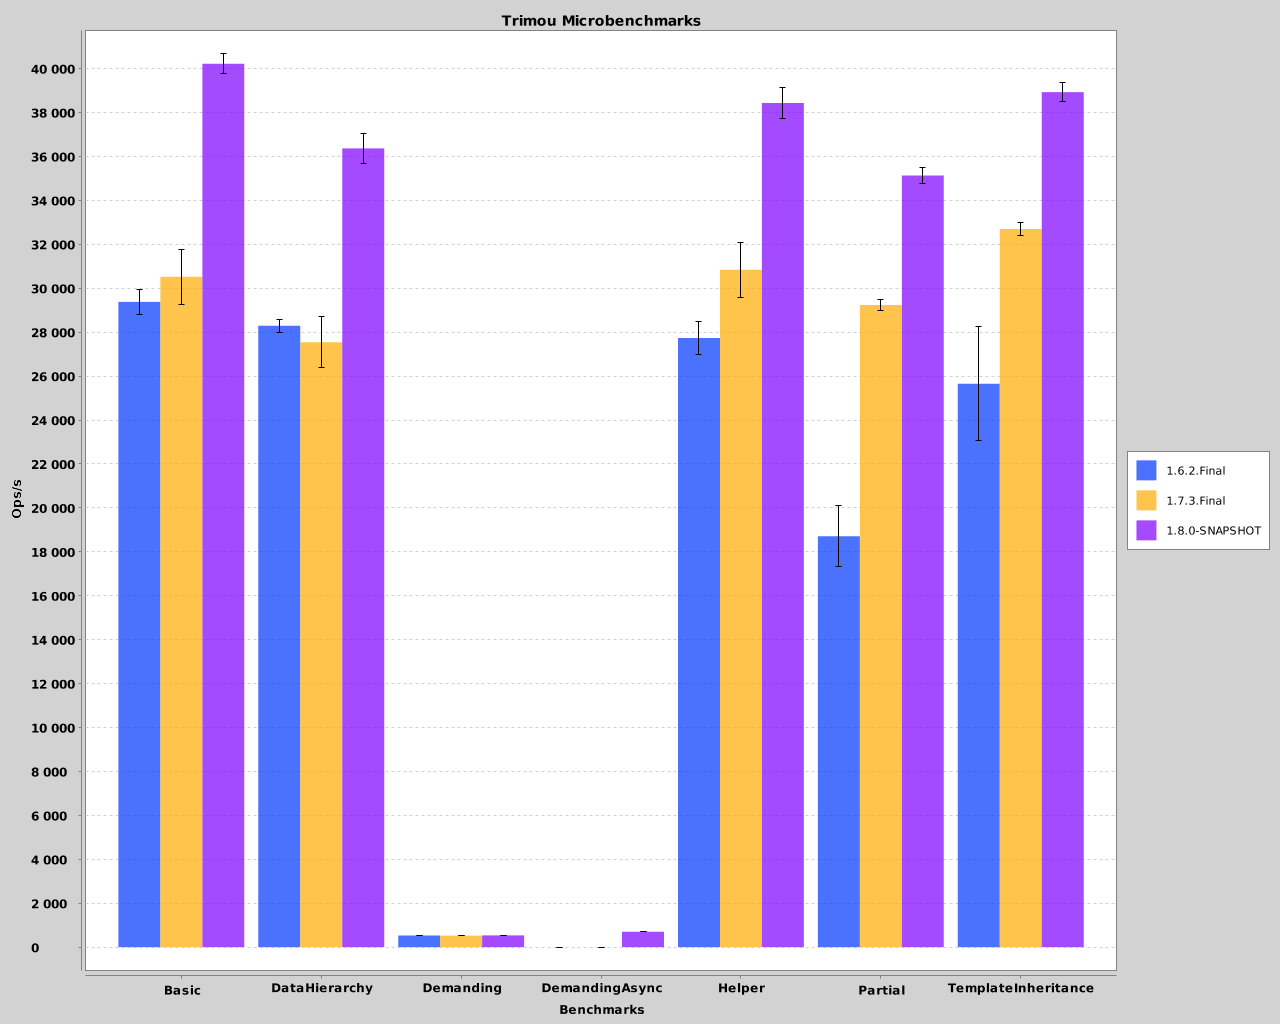
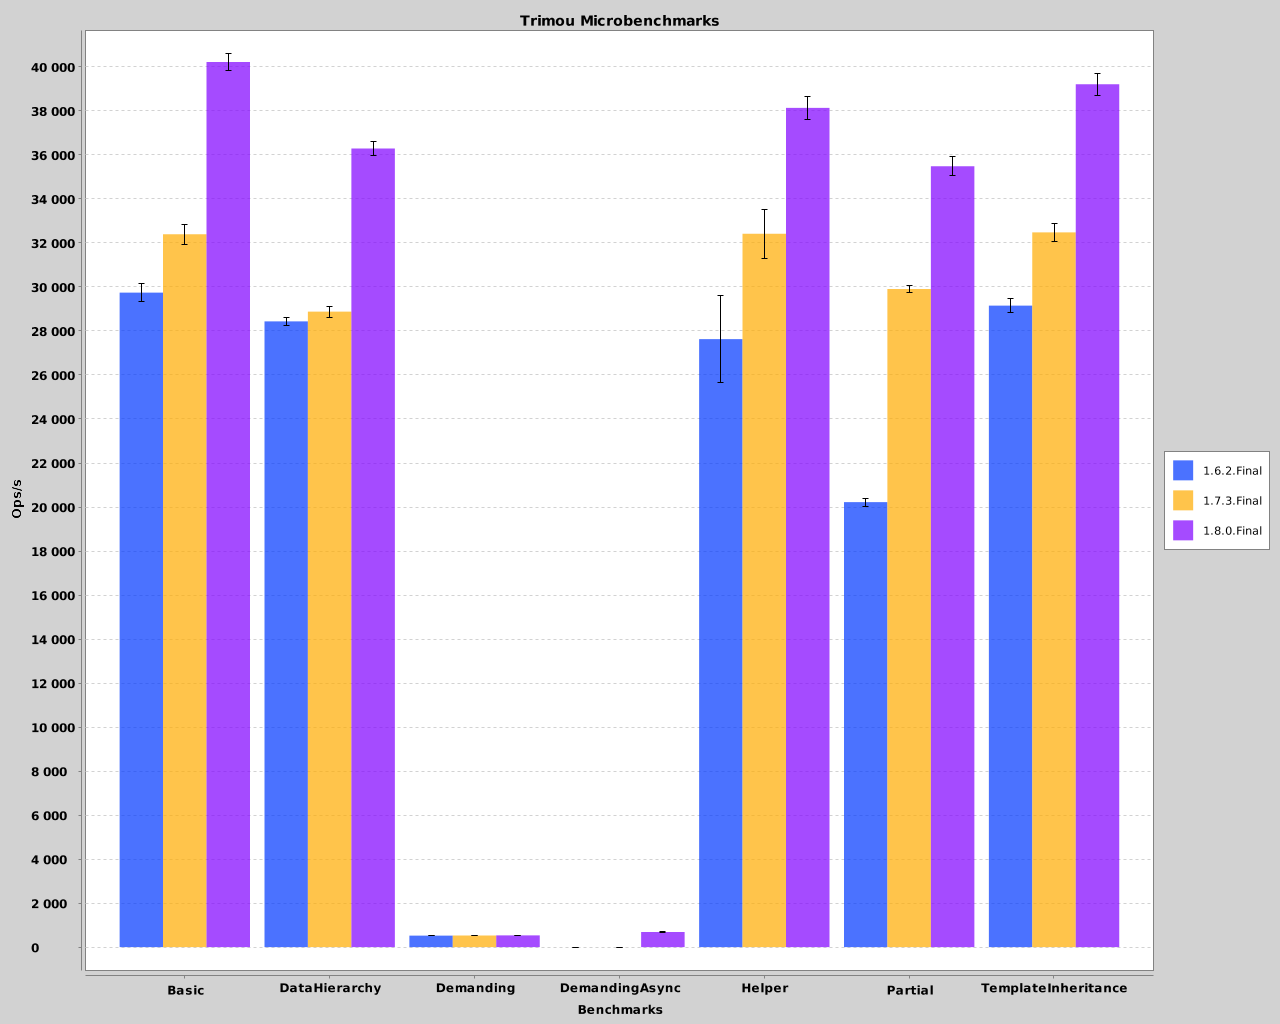
1.8.0.Final

diff --git a/README.md b/README.md
@@ -18,4 +18,6 @@ for a specific Trimou version.
 Example Results
 ===============
 
+1 thread, Oracle jdk1.8.0_31
+
 ![Example results](trimou-microbenchmarks.png)
